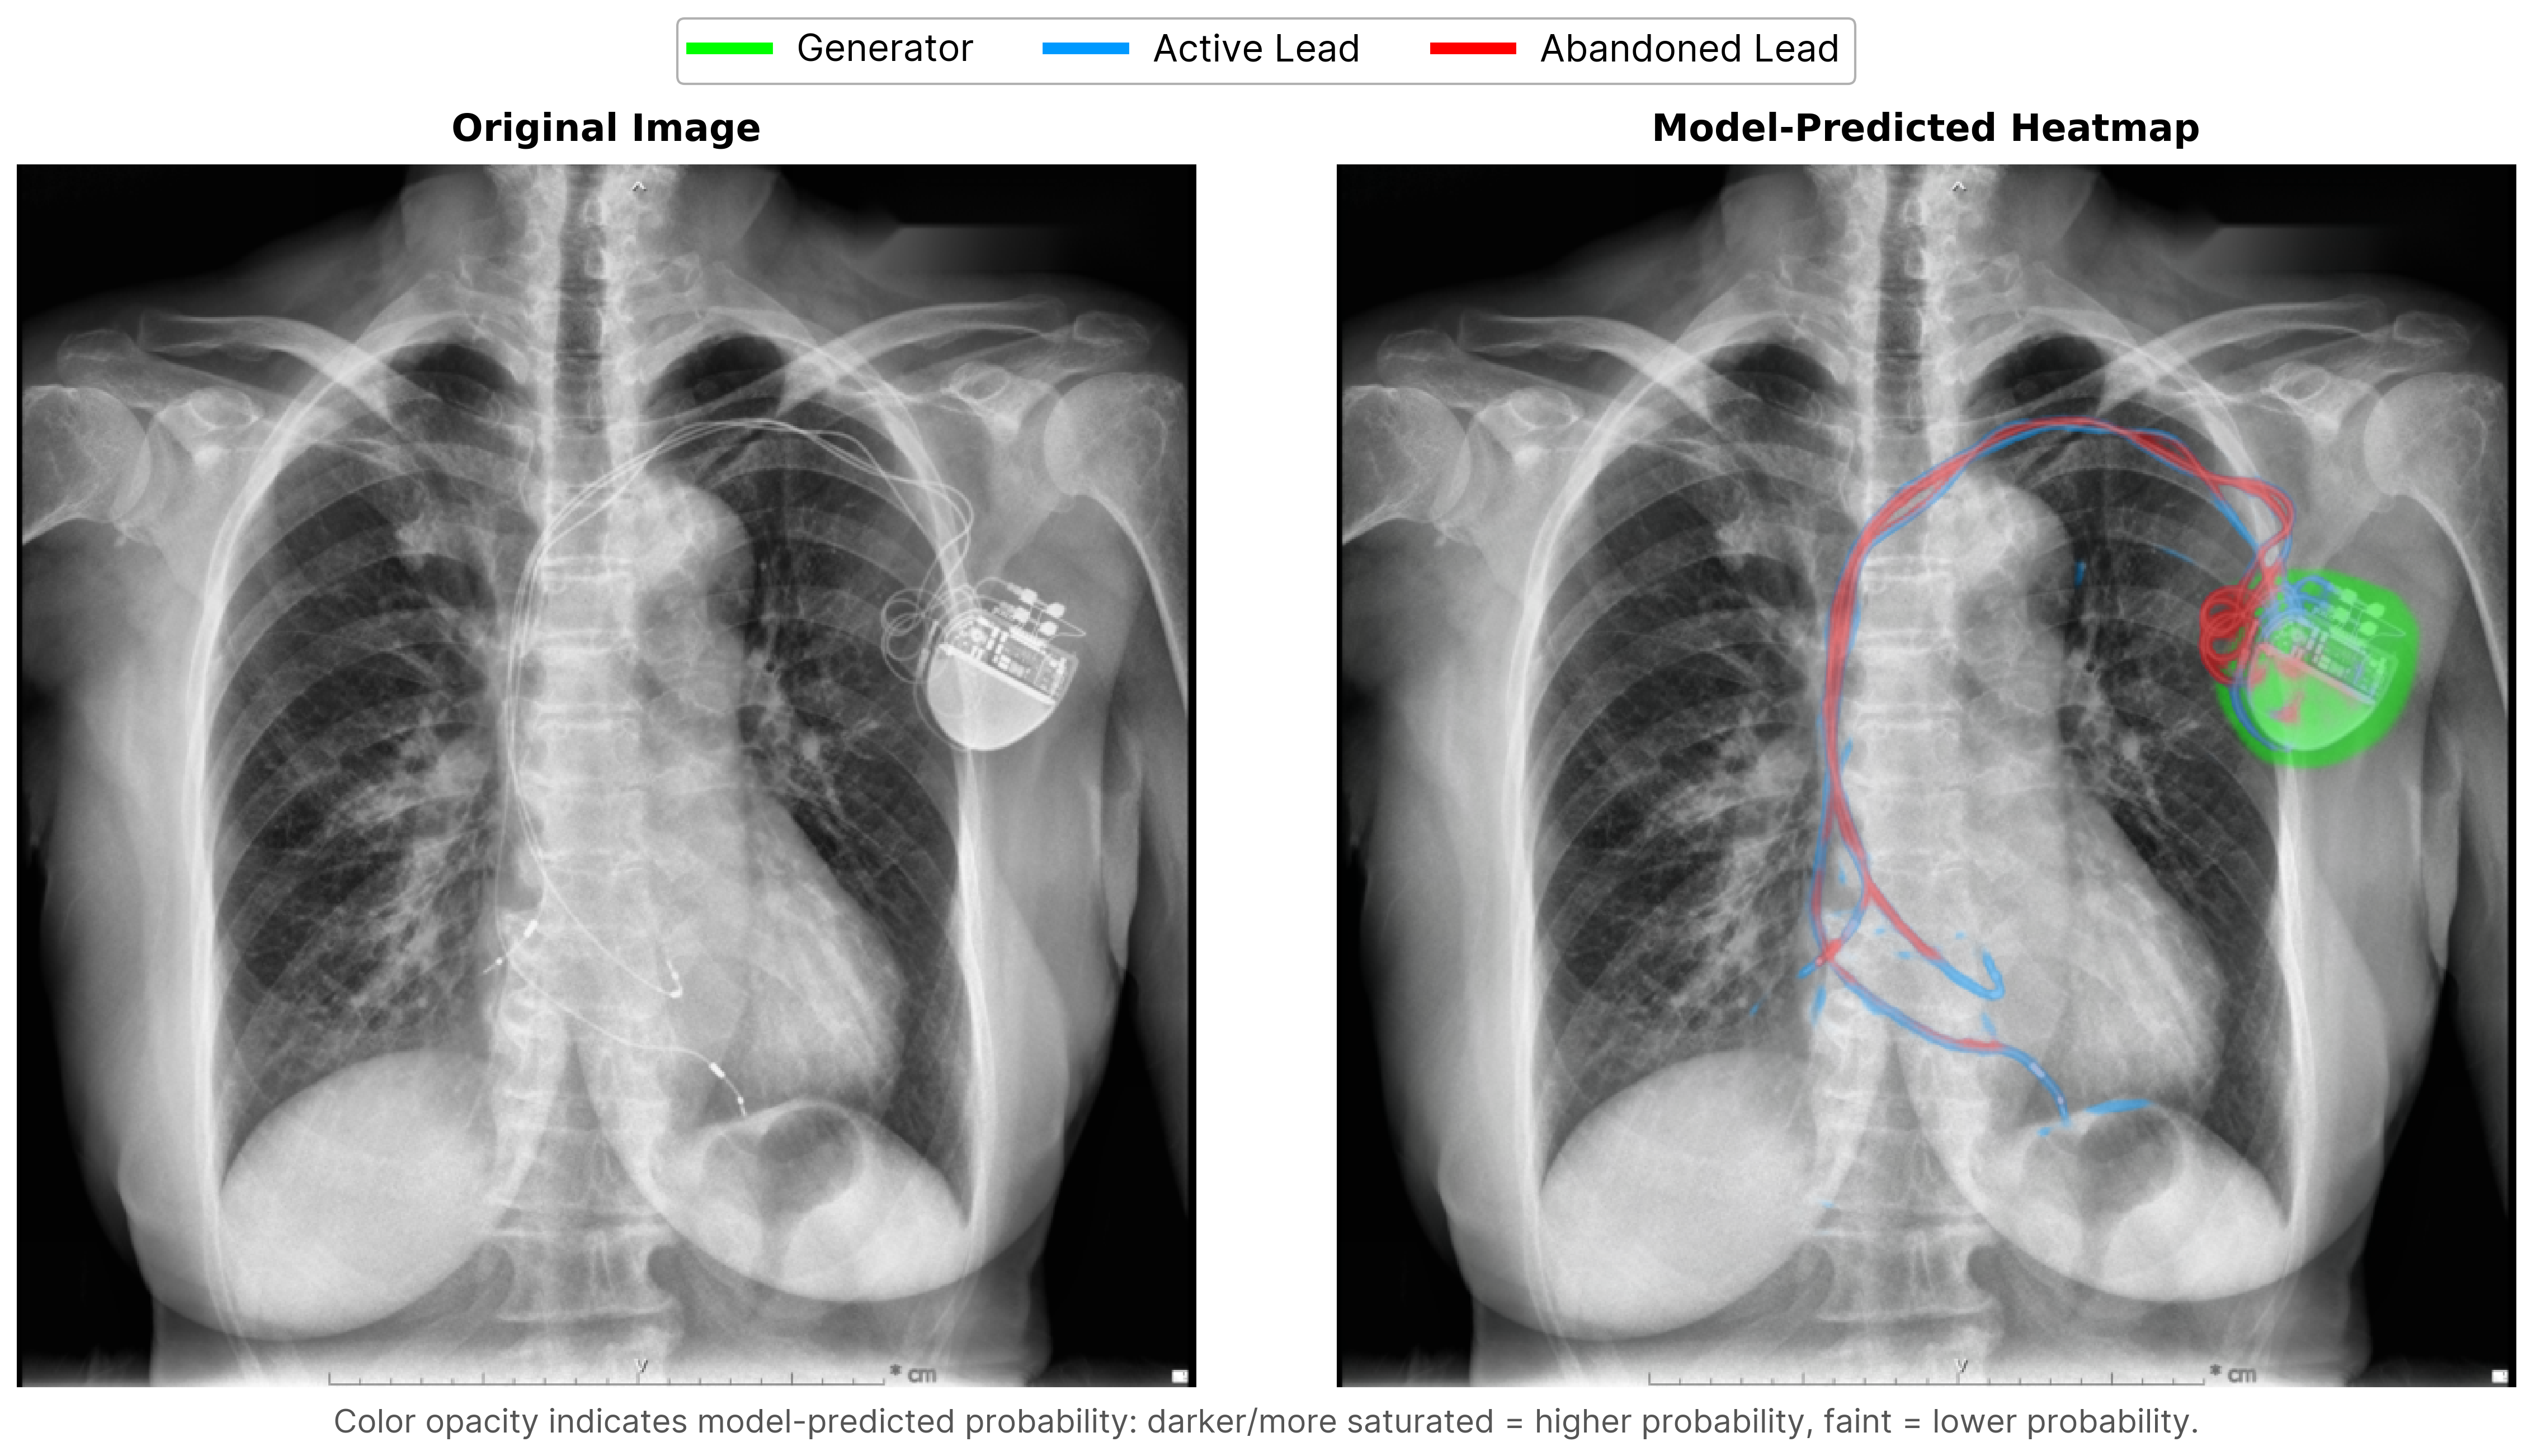
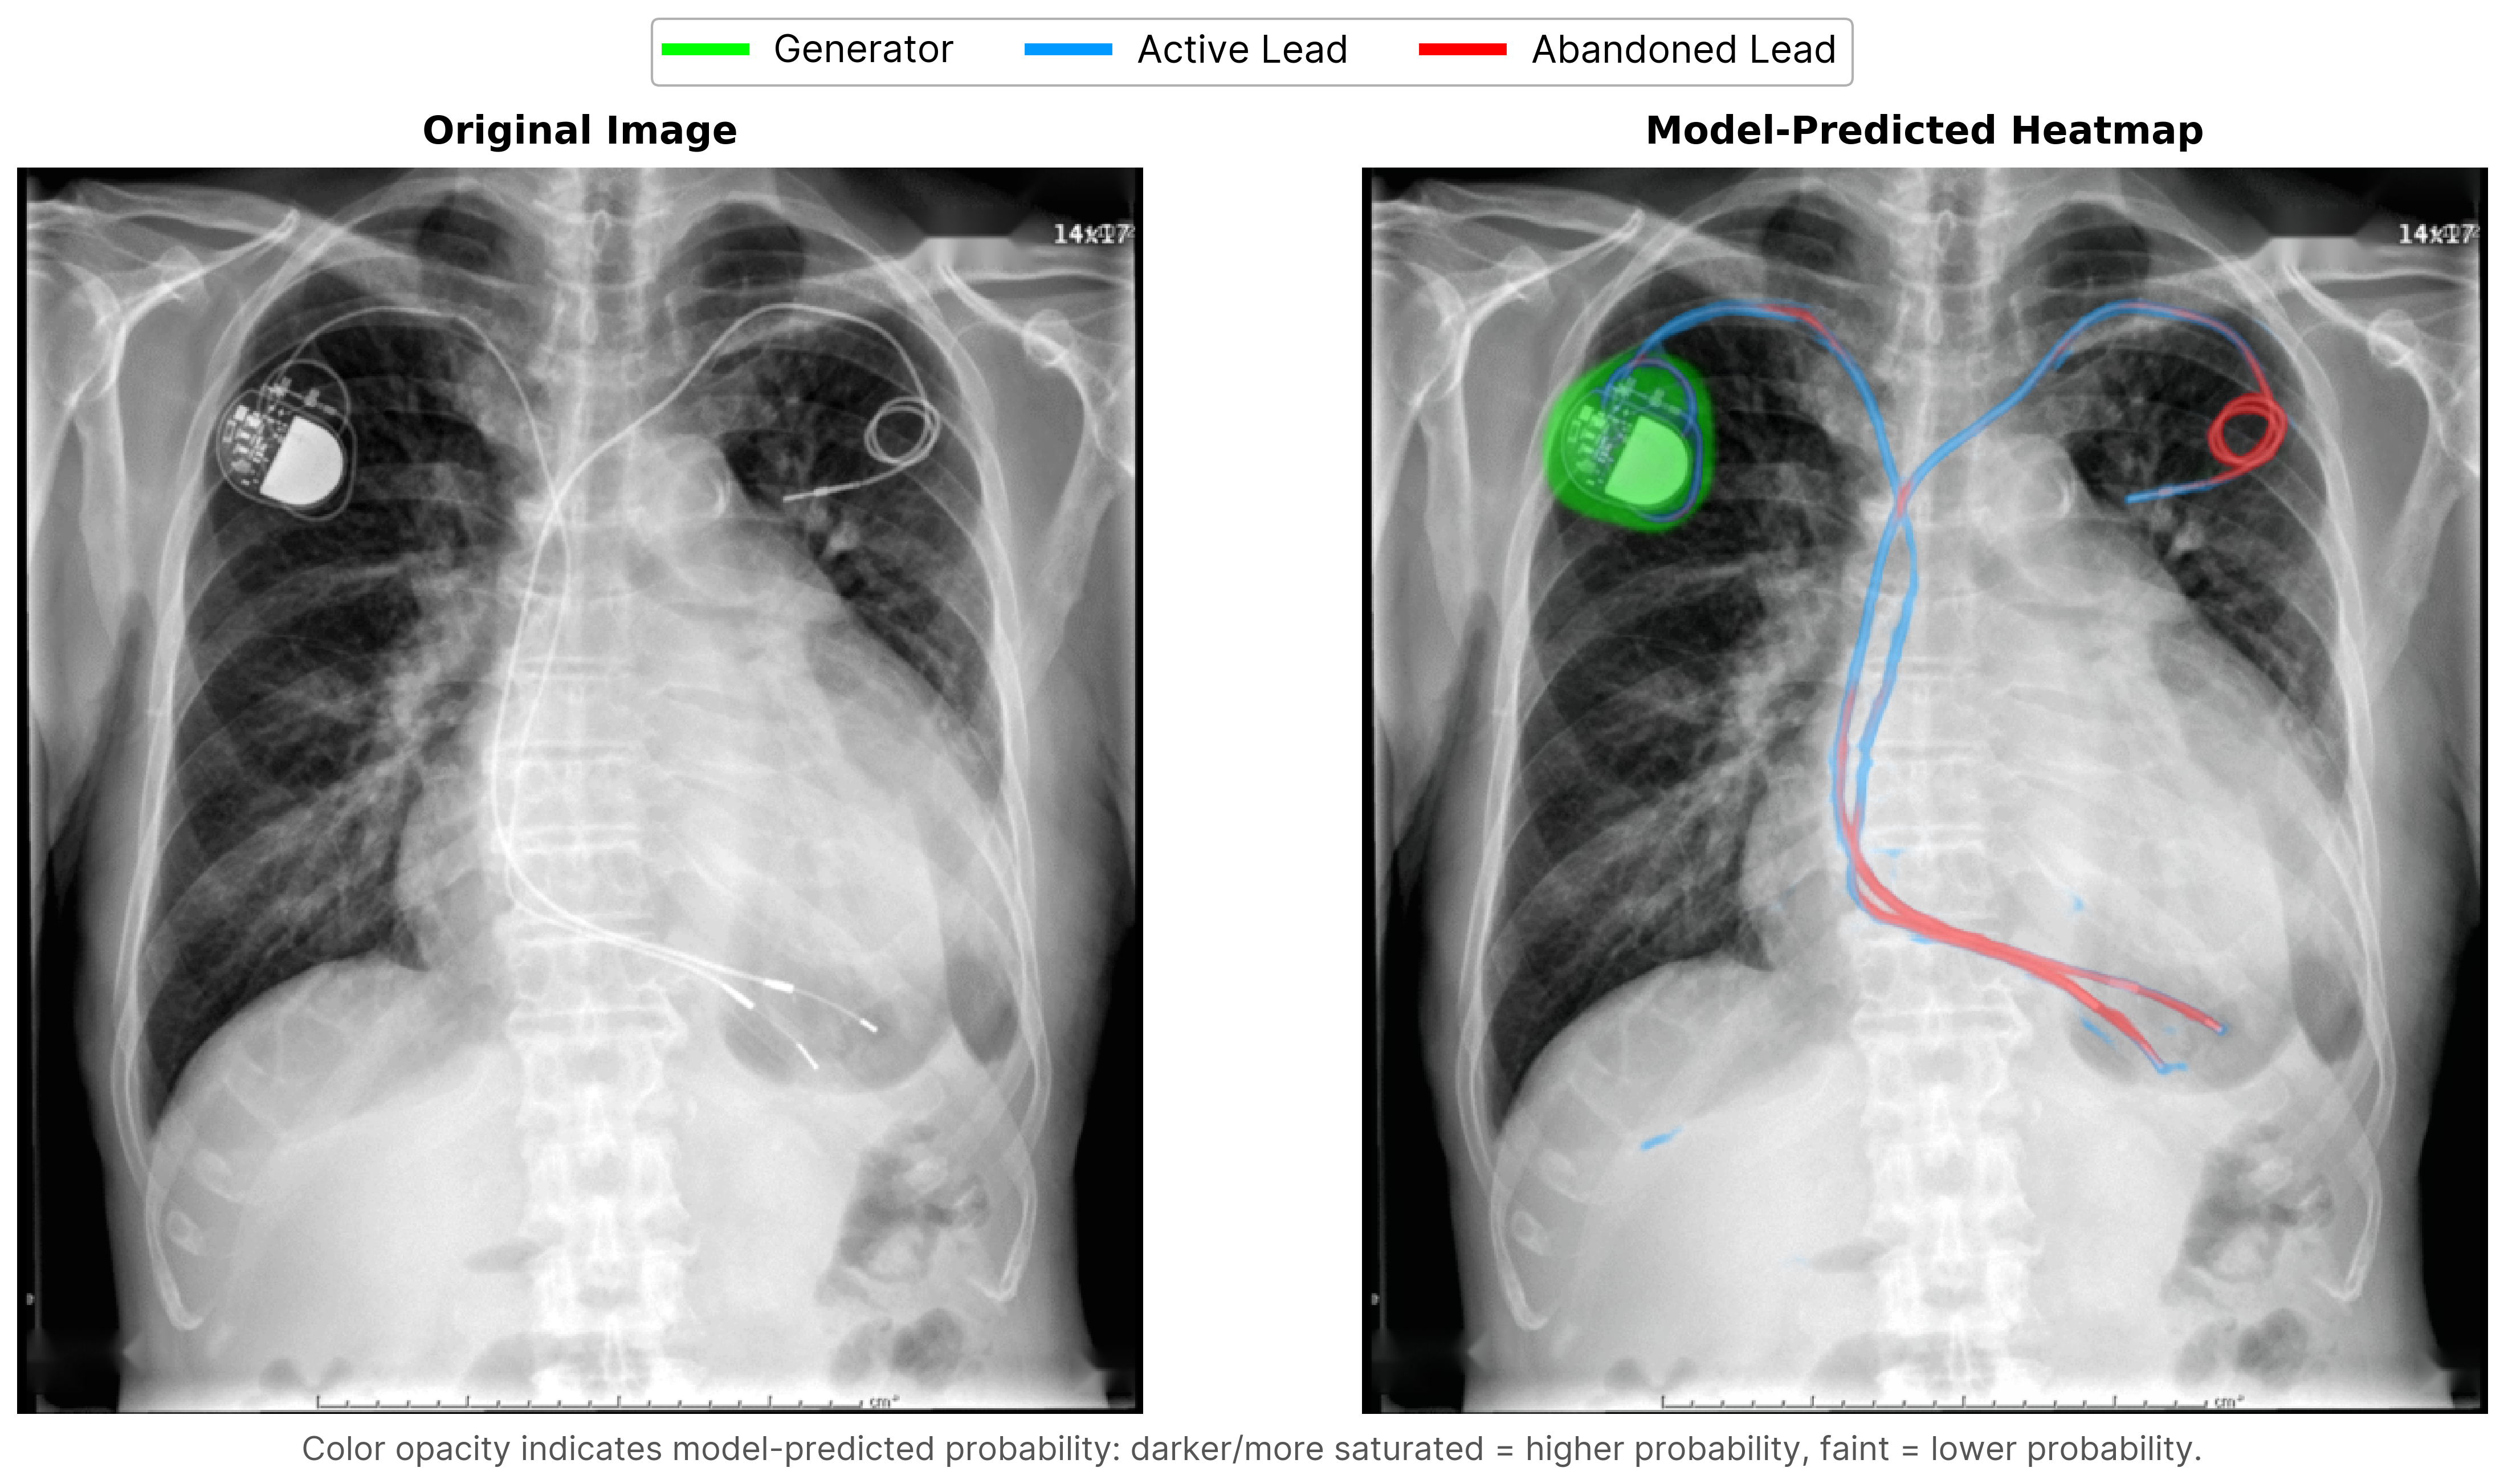
b

diff --git a/cied/AbdnL/heatMapAll2.py b/cied/AbdnL/heatMapAll2.py
@@ -78,7 +78,7 @@ def auto_crop_center(img, threshold=0.05):
 # ==========================================================
 # 4. PROCESSING SELECTED IMAGES (SIDE-BY-SIDE VIEW)
 # ==========================================================
-selected_filenames = ["a_x23.png"]
+selected_filenames = ["a_x1.png"]
 selected_imgs = [p for p in img_files if p.name in selected_filenames]
 
 missing = set(selected_filenames) - {p.name for p in selected_imgs}